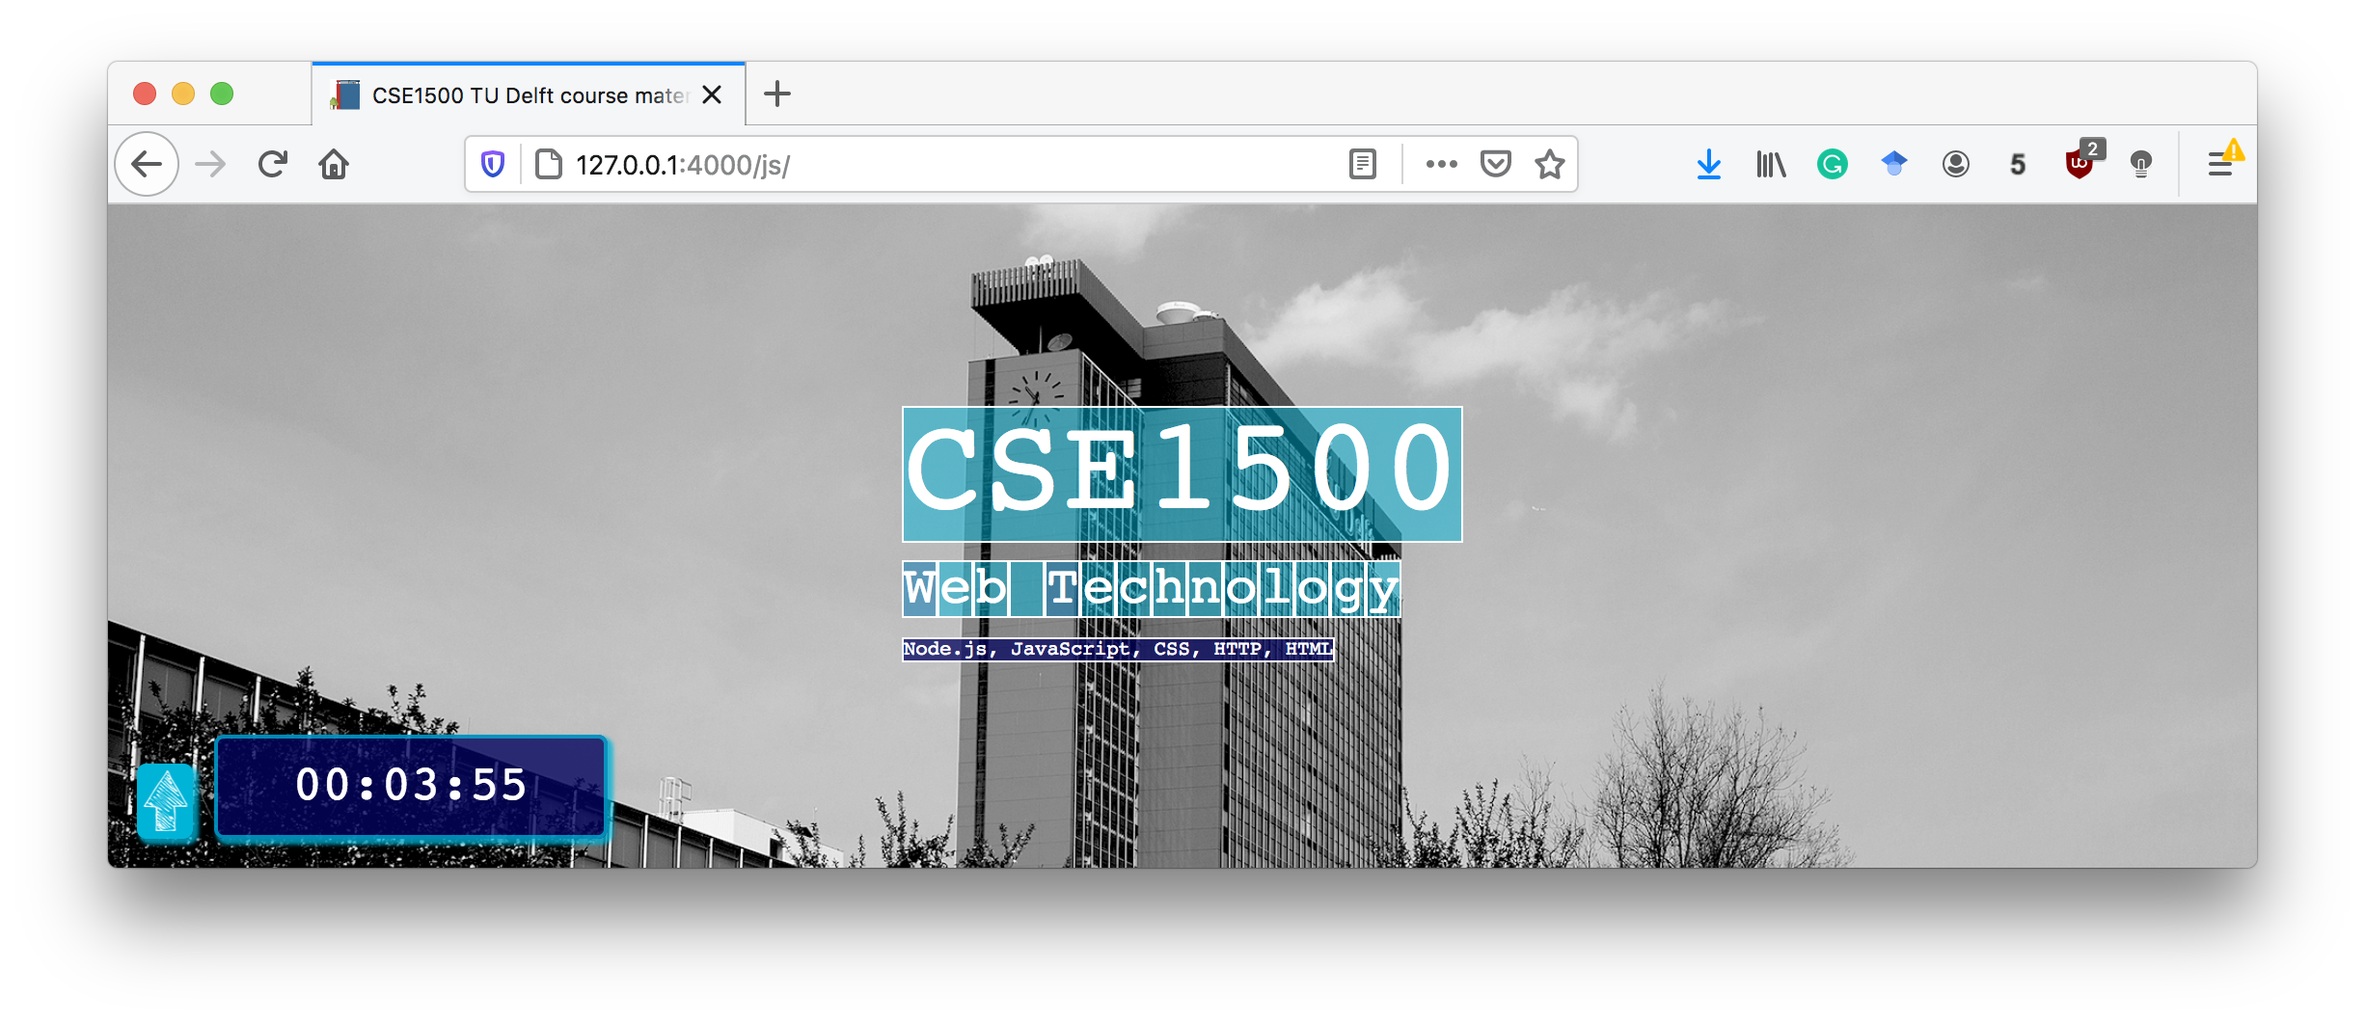
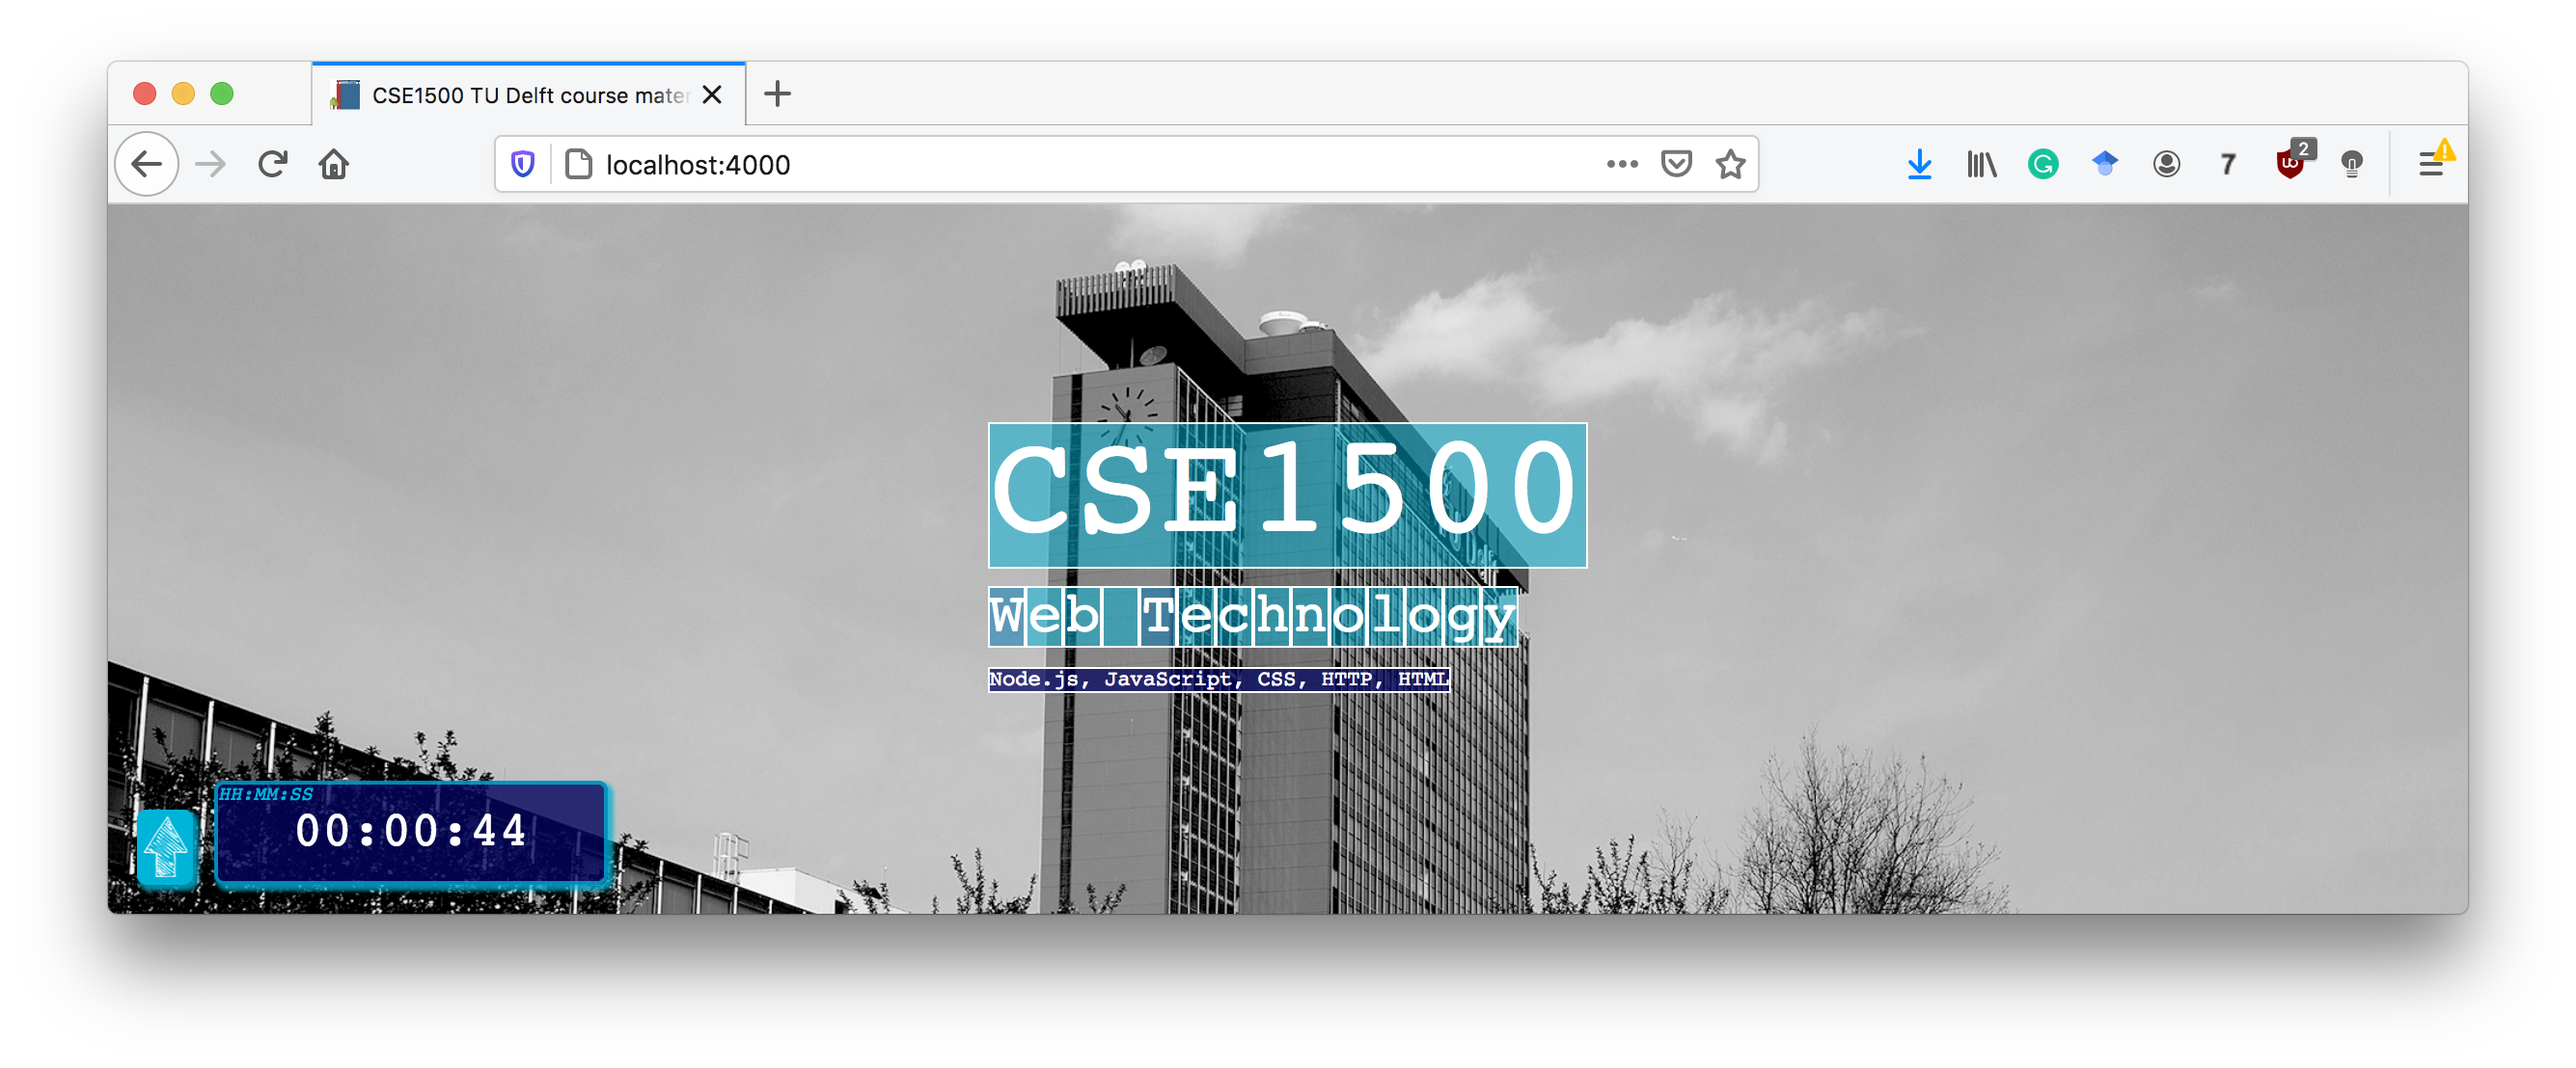
typo fixed, css refined

Changed region(s): [[0.031, 0.2491, 0.9608, 0.8717], [0.031, 0.0311, 0.9608, 0.4981]]

diff --git a/assets/css/skin.css b/assets/css/skin.css
@@ -57,6 +57,16 @@ nav {
   z-index: 999;
 }
 
+#timeSpent div::before {
+  content: "HH:MM:SS";
+  position: absolute;
+  font-size: 40%;
+  font-style: italic;
+  color: var(--nav-link-color);
+  top: 0;
+  left: 0;
+}
+
 #timeSpent div {
   visibility: hidden;
 }

diff --git a/README.md b/README.md
@@ -162,7 +162,7 @@ idleTimeout: 60
 
 If `timeSpent: true` is set, a second icon appears next to the small navigation icon with a clock (as seen in the screenshot above). Hovering over it reveals the amount of time spent on the particular page:
 
-![cse-theme small time spent](/img/screenshot-timeSpent.png)
+![cse-theme small time spent](/img/screenshot-timespent.png)
 
 The `idleTimeout` setting is the number of seconds of idling that is required for the timer to stop. By default, this is 60 seconds. Idling occurs when (1) the page is not in focus or (2) the page is in focus but no mouse/keyboard/scroll activity is detected. 
 
